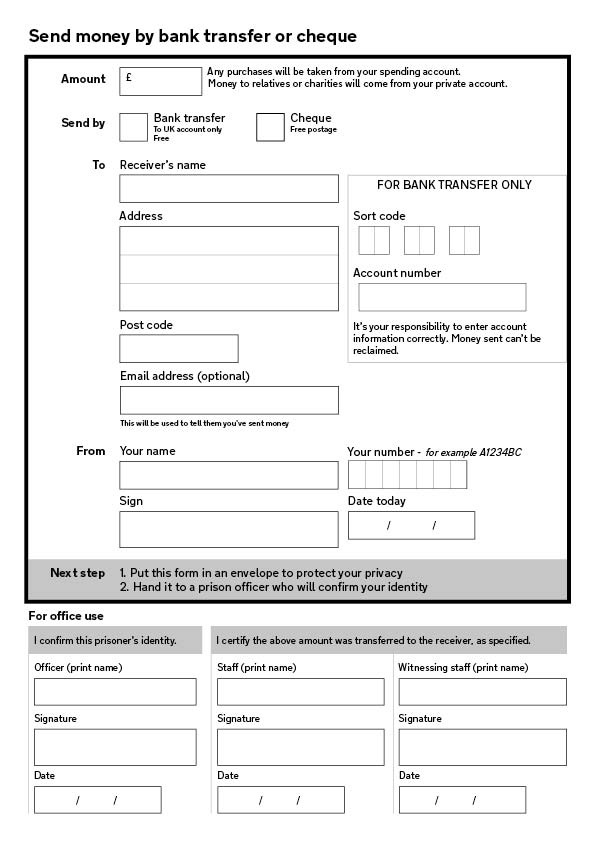
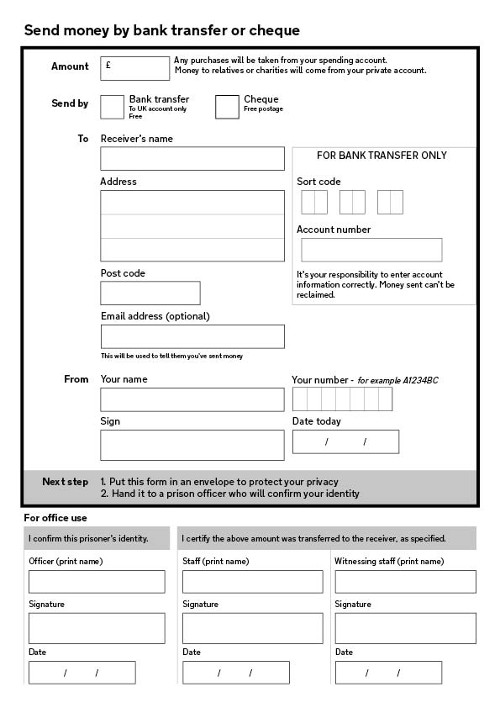
Fix alt-text attribute and compress disbursement form sample image

diff --git a/mtp_cashbook/templates/disbursements/start.html b/mtp_cashbook/templates/disbursements/start.html
@@ -25,7 +25,7 @@
       </p>
     </div>
     <div class="mtp-disbursement-start-form">
-      <img src="{% static 'images/disbursement_form.jpg' %}" alt-text={% trans '“Send money by bank transfer or cheque” form' %}/>
+      <img src="{% static 'images/disbursement_form.jpg' %}" alt={% trans '“Send money by bank transfer or cheque” form' %}/>
     </div>
   </div>
 {% endblock %}
